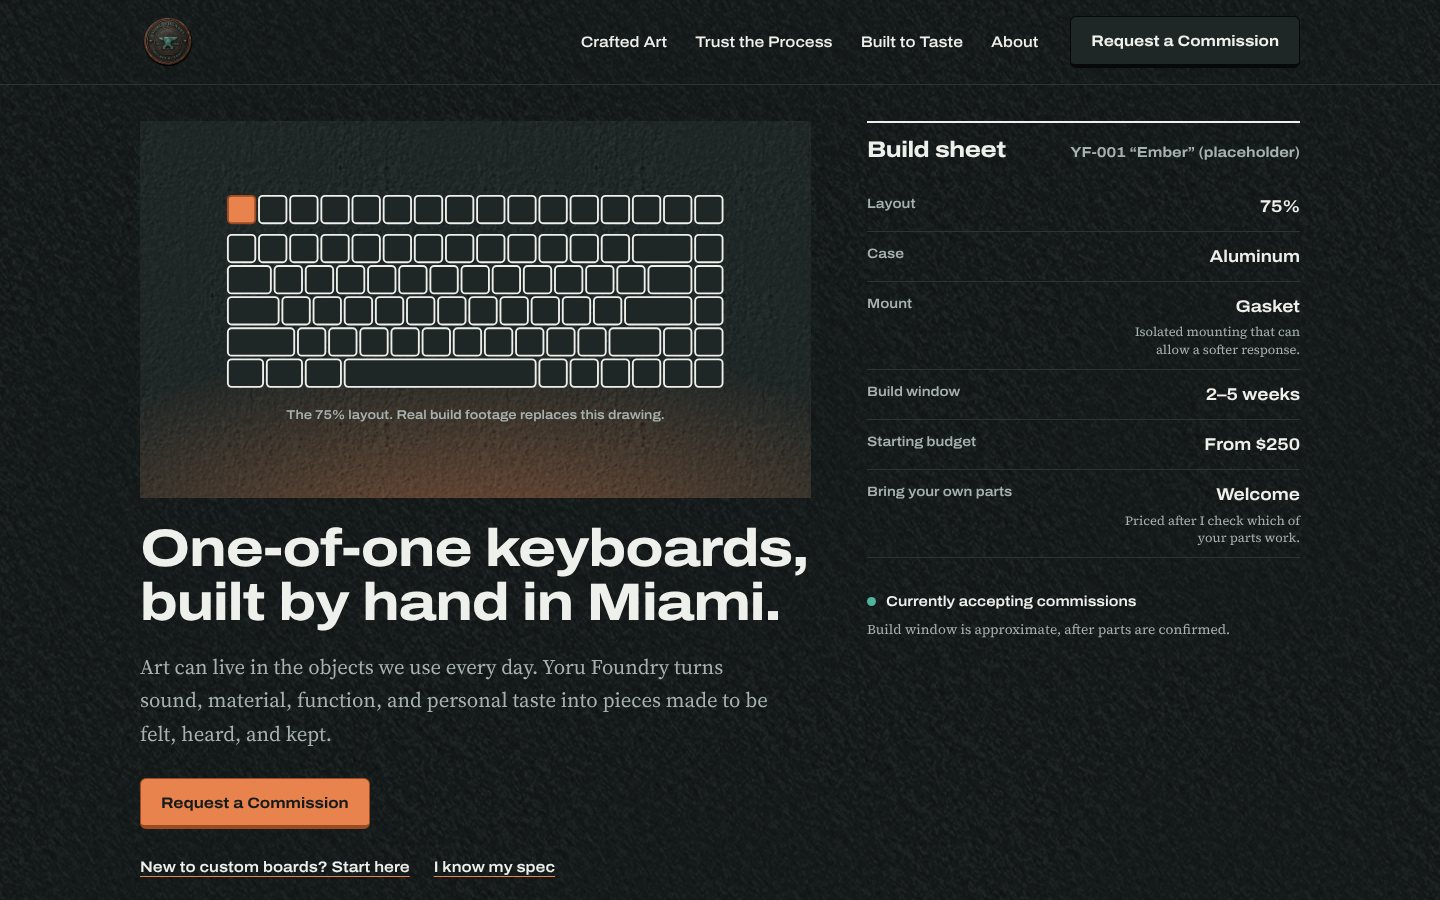
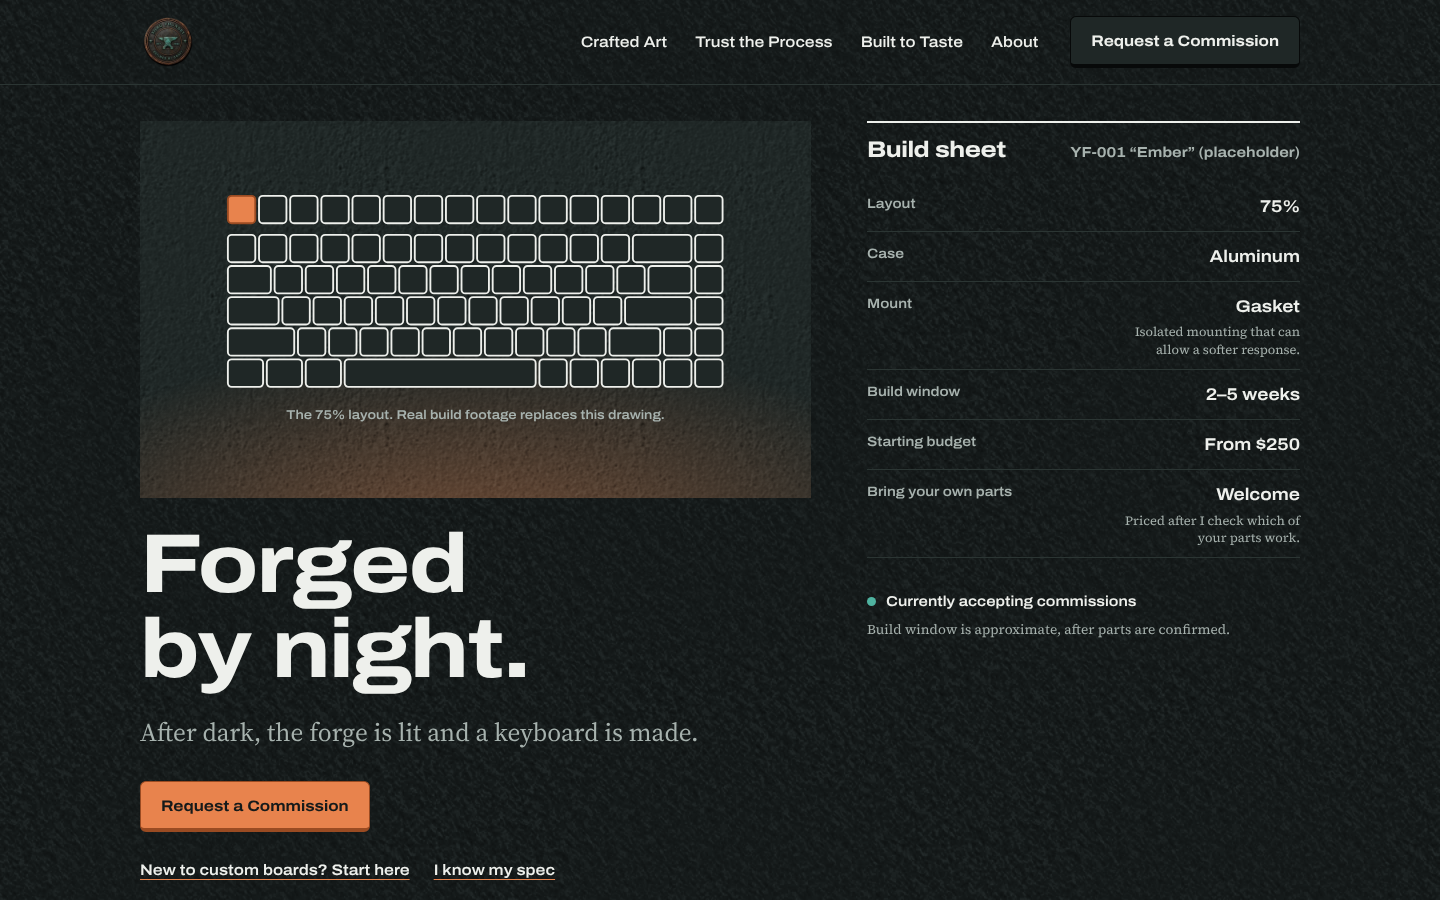
Mockup: "Forged by night." headline trial
H1 "Forged by night." with "After dark, the forge is lit and a keyboard is
made." beneath, replacing the old lede. Title and meta description carry
"custom mechanical keyboards". Commission button still ends at 832px at
1440x900.

Claude-Session: https://claude.ai/code/session_014kgsP4zXbR91SpjPr6JWR2

Changed region(s): [[0.0938, 0.5911, 0.5625, 0.9956], [0.3125, 0.9333, 0.375, 0.9956]]

diff --git a/mockups/home.html b/mockups/home.html
@@ -3,7 +3,8 @@
 <head>
 <meta charset="utf-8">
 <meta name="viewport" content="width=device-width, initial-scale=1">
-<title>Yoru Foundry — homepage mockup</title>
+<title>Yoru Foundry: custom mechanical keyboards, forged by night</title>
+<meta name="description" content="Custom mechanical keyboards, hand-built, tuned and named one at a time in a small Miami workshop.">
 <link rel="preconnect" href="https://fonts.googleapis.com">
 <link rel="preconnect" href="https://fonts.gstatic.com" crossorigin>
 <link href="https://fonts.googleapis.com/css2?family=Archivo:wdth,wght@62..125,400..800&family=Source+Serif+4:opsz,wght@8..60,400;8..60,600&display=swap" rel="stylesheet">
@@ -115,7 +116,7 @@ a { color: inherit; text-decoration-color: var(--accent-2, var(--accent)); text-
   font-family: Archivo, system-ui, sans-serif; font-stretch: 112%;
 }
 h1, h2, h3 { font-family: Archivo, system-ui, sans-serif; font-stretch: 118%; font-weight: 750; letter-spacing: -.02em; line-height: 1.02; margin: 0; text-wrap: balance; }
-h1 { font-size: clamp(2.4rem, 4.2vw, 3.3rem); }
+h1 { font-size: clamp(2.8rem, 6.4vw, 5.2rem); }
 h2 { font-size: clamp(1.9rem, 3.6vw, 3rem); }
 h3 { font-size: 1.35rem; letter-spacing: -.01em; }
 p { margin: 0; max-width: 62ch; }
@@ -153,7 +154,7 @@ header .wrap { display: flex; align-items: center; gap: 32px; height: 84px; }
 .frame .board.hero-board { width: 78%; }
 .frame-note { max-width: none; }
 .hero-copy { grid-column: 1; display: grid; gap: 20px; }
-.hero-copy .lede { font-size: clamp(1.1rem, 1.6vw, 1.3rem); color: var(--muted); }
+.hero-copy .lede { font-size: clamp(1.2rem, 2vw, 1.6rem); color: var(--muted); }
 .actions { display: flex; flex-wrap: wrap; gap: 20px; align-items: center; margin-top: 8px; }
 .actions a:not(.btn) { display: inline-block; padding: 12px 0; font-family: Archivo, sans-serif; font-stretch: 112%; font-weight: 600; font-size: .95rem; }
 .sheet-card { grid-column: 2; grid-row: 1 / span 2; align-self: start; display: flex; flex-direction: column; gap: 8px; border-top: 2px solid var(--ink); padding-top: 16px; }
@@ -263,8 +264,8 @@ footer .wrap { display: flex; justify-content: space-between; gap: 16px; flex-wr
   <section class="hero">
     <div class="frame"><div class="board live hero-board" data-layout="75"><svg></svg></div><p class="frame-note">The 75% layout. Real build footage replaces this drawing.</p></div>
     <div class="hero-copy">
-      <h1>One-of-one keyboards, built by hand in Miami.</h1>
-      <p class="lede">Art can live in the objects we use every day. Yoru Foundry turns sound, material, function, and personal taste into pieces made to be felt, heard, and kept.</p>
+      <h1>Forged by night.</h1>
+      <p class="lede">After dark, the forge is lit and a keyboard is made.</p>
       <div class="actions"><a class="btn primary" href="#">Request a Commission</a></div>
       <p class="paths"><a href="#">New to custom boards? Start here</a><a href="#">I know my spec</a></p>
     </div>

diff --git a/DESIGN_PLAN.md b/DESIGN_PLAN.md
@@ -279,6 +279,8 @@ homepage leads into them, not what they are.
    Still open: approval of the two entry-link labels, the "what every build gets" list and the queue line.
    Site follow-ups: change the request form's budget bands, and fix `content.js` where "Ember" is labelled "Sound".
 5. ~~Fix the P0 Bone contrast bug now?~~ **Done** in its own commit (1.72:1 → 4.75:1).
-6. ~~Hero H1 wording~~ **Chosen:** "One-of-one keyboards, built by hand in Miami." "Refined by Craft." moves to the footer as the motto.
-   Entry links "New to custom boards? Start here" and "I know my spec" kept for now.
+6. ~~Hero H1 wording~~ **Trial:** H1 "Forged by night." with the line "After dark, the forge is lit and a keyboard is made."
+   under it. The page title and meta description say "custom mechanical keyboards" for search and link previews.
+   "Refined by Craft." moves to the footer as the motto. Entry links kept for now.
+   Site follow-up: the Phase 7 site check requires "keyboards" in the H1; change it to accept the hero line or title.
 7. Verdigris changes the critical first-paint colors in `AGENTS.md` (body `#151A1A`, header on Cast). OK to change those rules?
